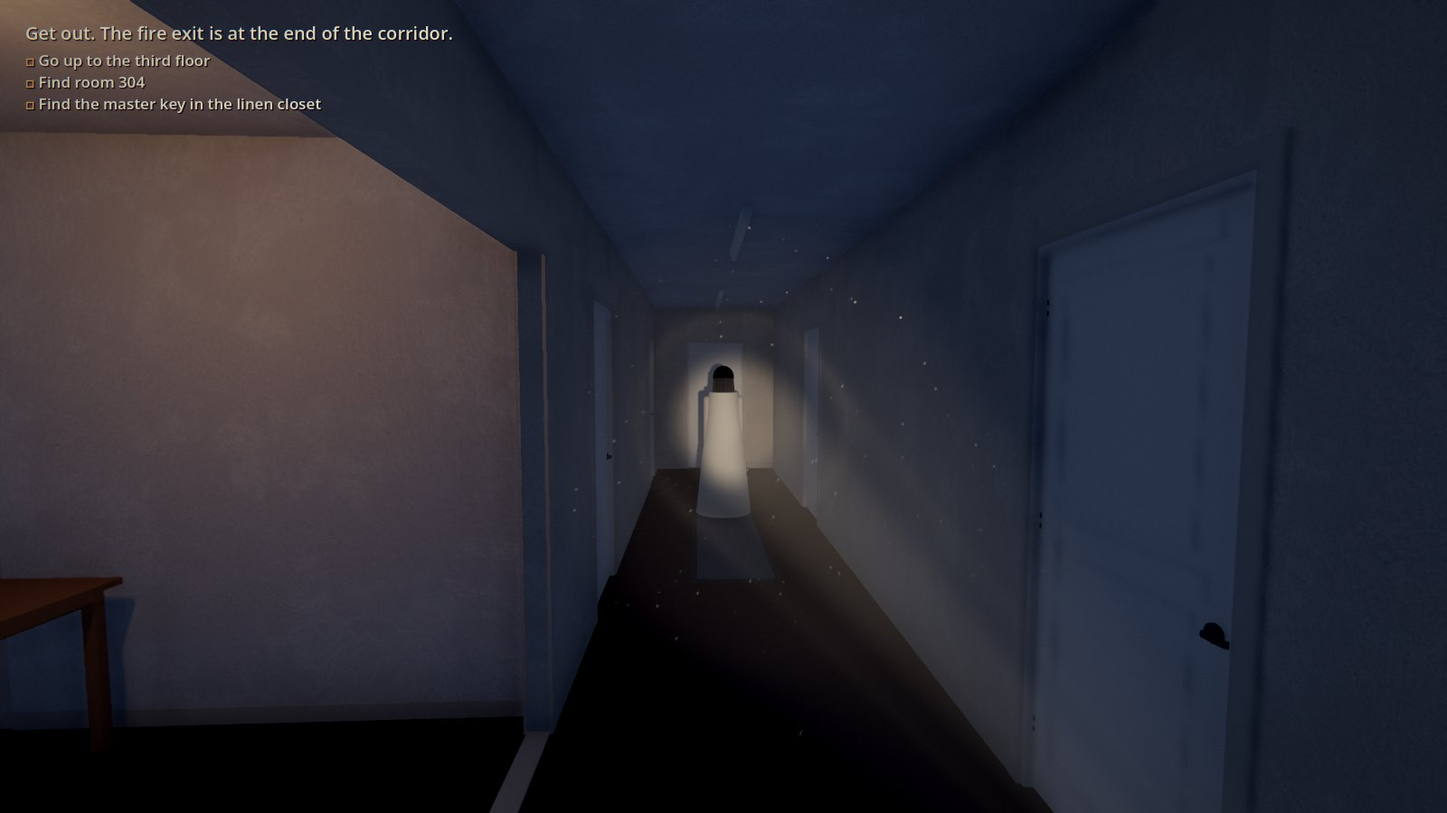
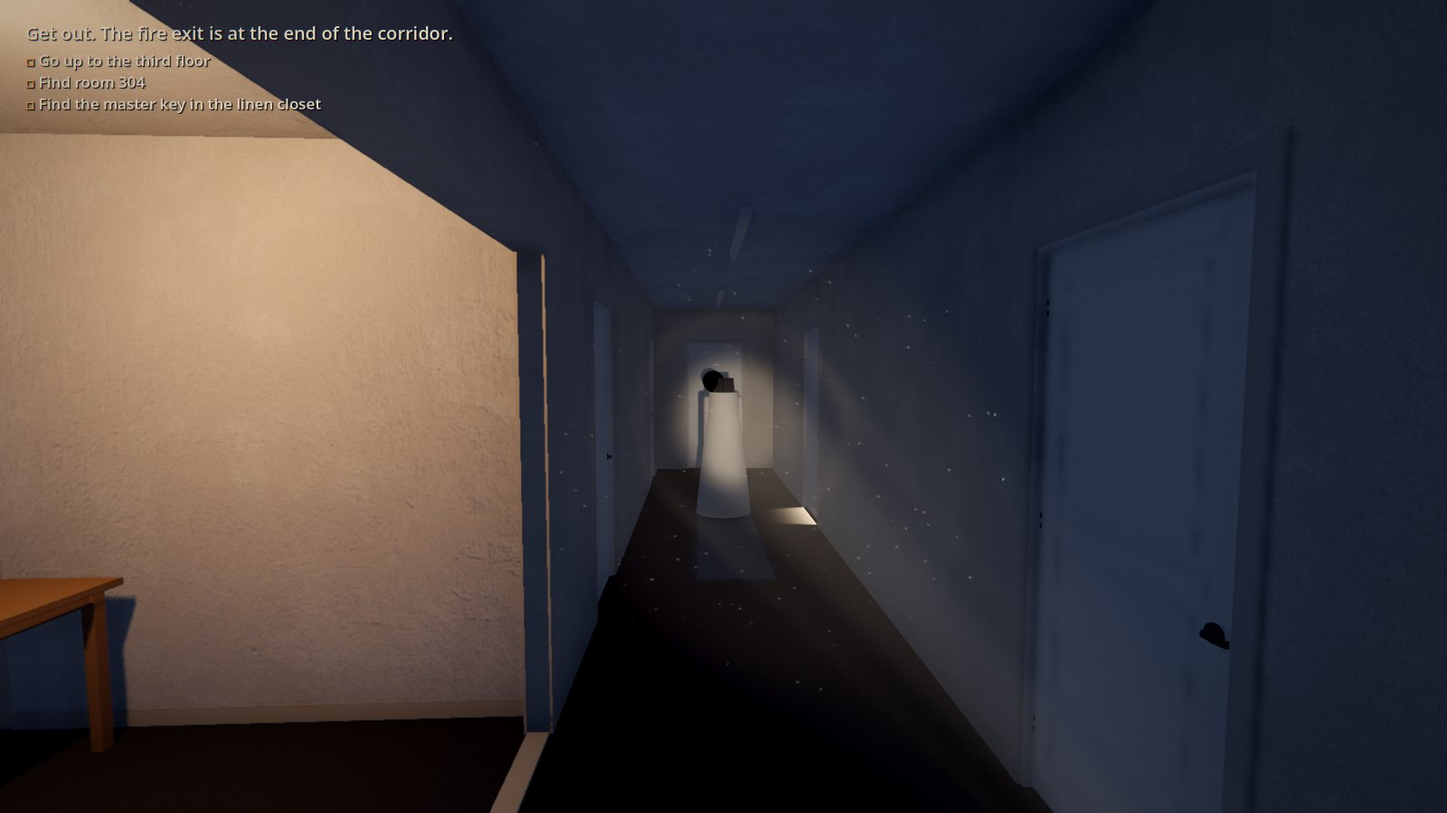
Something wrong with her: the dead stare, the wrong smile, her head bent, her steps copying yours
The starter kit's uncanny.gd, under a character, one thing wrong a face: stare (her
blink off), smile (MHR's lip corner puller with the cheek raiser held at 0: a smile with
no eyes in it), tilt_deg (her head bone, or a stand-in's head and scalp, bent past the
neck's reach) and mimic (a step of hers toward you for each of yours, never while she's
lit). HSBlink no longer stops with a script error on a primitive mesh (only an ArrayMesh
answers about blend shapes). Tutorial v2: her head bent and her steps copying yours, the
closer's figure smiling; TUTORIAL2 tries the smile and the stare on a made-up face with
MHR's shapes; her pictures drawn again.

Claude-Session: https://claude.ai/code/session_014EE6XVG5YmwCZ7DykBkVvC

Changed region(s): [[0.0, 0.0, 0.375, 1.0], [0.4688, 0.4356, 0.5, 0.4978], [0.5312, 0.6222, 0.5625, 0.6533]]

diff --git a/guides/tutorial_v2/index.html b/guides/tutorial_v2/index.html
@@ -108,7 +108,7 @@ footer{margin-top:50px;padding-top:16px;border-top:1px solid var(--line);color:v
   <b>scene builder</b>, then build the whole game in Godot by hand: the <b>Look plugin</b> for the light, the weather and
   the surfaces, and the <b>starter scripts</b> for the story, the sound and the scares. No Director.</p>
   <div class="chips"><span class="chip">about two hours</span><span class="chip">Godot 4.7</span><span class="chip">the scene builder</span>
-  <span class="chip">the HorrorStudio Look plugin</span><span class="chip">25 starter scripts</span><span class="chip">the sound shelf and the four moods</span></div>
+  <span class="chip">the HorrorStudio Look plugin</span><span class="chip">26 starter scripts</span><span class="chip">the sound shelf and the four moods</span></div>
 </header>
 
 <section id="what">
@@ -662,6 +662,18 @@ and when you come within 4 m and look at it, two shadows walk into it and stop: 
 door. Four seconds later they walk away. They wait for your eyes, so they never come while you're looking at her. The
 note asked you not to knock on 308.</p>
 <figure><img src="img/feet.jpg" width="1600" height="900" alt="The dark corridor: light under 308's door, two feet in it"><figcaption>The light under 308's door, and someone standing behind it.</figcaption></figure>
+
+<h3 id="wrong">Something wrong with her</h3>
+<p>Give <code>Her</code> a <span class="node">Node</span> called <code>Uncanny</code> with
+<code>starter/uncanny.gd</code>: <b>Tilt Deg</b> 48 and <b>Mimic</b> on. Her head is bent to the side further than a
+neck goes (about 42°), and she steps when you step and stops when you stop, a step toward you for each of yours, never
+nearer than 2.5 m and never while your light is on her. Give the closer's figure (<code>Events/Closer/Figure</code>)
+one too, with <b>Smile</b> 0.6: when you turn round to her 35 cm behind you, she's smiling with her mouth and not her
+eyes (MHR's lip corner puller without the cheek raiser). <b>Stare</b> turns her blink off: people blink about 17 times
+a minute, and a face that never does isn't alive.</p>
+<p>The smile and the stare need a Character Studio character (her face's shapes and her blink); the stand-in has
+neither, so the bent head and the steps are what you'll see with it. One wrong thing a face: put them all on one face
+and she reads as a monster instead of a person.</p>
 </section>
 
 <section id="ending">
@@ -689,7 +701,7 @@ fire door ends the night: the screen goes black and the ending's title comes up.
   <li>The linen closet is dark: <kbd>F</kbd>. Take the key and the corridor goes out behind you, one tube at a time, then comes back.</li>
   <li>Open 304 with the key. The TV's on. The music turns to dread. Look at the window, then back at the bath's door. And again. Then wash your face, and stand by the bath's wall with the lamp behind you.</li>
   <li>The flashlight dies. Batteries in the vending corner, where the radio's hissing. Walk back out and listen behind you.</li>
-  <li>On the way out she's at the end of the corridor, the tubes stuttering round her. Your heart picks up as you near her. Shine the light on her and she backs off. Do it twice and the corridor goes dark.</li>
+  <li>On the way out she's at the end of the corridor, the tubes stuttering round her, her head on one side. Walk, and she walks. Your heart picks up as you near her. Shine the light on her and she backs off. Do it twice and the corridor goes dark.</li>
   <li>Walk to the fire exit. Don't look under 308's door.</li>
 </ol>
 </section>

diff --git a/tools/godot/tutorial_v2.py b/tools/godot/tutorial_v2.py
@@ -180,7 +180,7 @@ ext = [("PackedScene", "res://exports/interiors/hotel_floor/hotel_floor.glb", "h
        ("Script", "res://starter/fear.gd", "fear"), ("Script", "res://starter/behind_you.gd", "behind"),
        ("Script", "res://starter/presence.gd", "presence"), ("Script", "res://starter/glimpse.gd", "glimpse"), ("Script", "res://starter/closer.gd", "closer"),
        ("Script", "res://starter/mirror_figure.gd", "mirrorfig"), ("Script", "res://starter/shadow_pass.gd", "shadowpass"),
-       ("Script", "res://starter/door_feet.gd", "feet"),
+       ("Script", "res://starter/door_feet.gd", "feet"), ("Script", "res://starter/uncanny.gd", "uncanny"),
        ("Script", "res://addons/horrorstudio_look/nodes/air_zone.gd", "airzone"), ("Script", "res://addons/horrorstudio_look/nodes/light_shaft.gd", "shaft"),
        ("Script", "res://addons/horrorstudio_look/nodes/wall_leak.gd", "leak"), ("Script", "res://addons/horrorstudio_look/nodes/puddle.gd", "puddle"),
        ("Script", "res://addons/horrorstudio_look/nodes/pattern_light.gd", "pattern"), ("Script", "res://addons/horrorstudio_look/nodes/tape.gd", "tape"),
@@ -334,6 +334,7 @@ def person(name, at, turn, shy, parent="."):
 
 person("Her", her_at, her_turn, True)
 nd("Presence", "Her", "Node", script="presence", props=['static_on = NodePath("../../Things/Radio")'], paths=["static_on"])   # the signs that she's near
+nd("Uncanny", "Her", "Node", script="uncanny", props=["tilt_deg = 48.0", "mimic = true"])   # her head bent too far, her steps copying yours
 person("HerAgain", again_at, her_turn, False)
 # the moments and the scares
 nd("Events", ".", "Node3D")
@@ -358,6 +359,7 @@ nd("Closer", "Events", "Node3D", script="closer", props=['blink = NodePath("../.
 for i, (name, at) in enumerate(closer_marks):
     nd(name, "Events/Closer", "Marker3D", props=[f"transform = {tf(at, 180.0)}"])     # facing into the room (a marker's -Z)
 person("Figure", [0, 0, 0], 0.0, False, parent="Events/Closer")
+nd("Uncanny", "Events/Closer/Figure", "Node", script="uncanny", props=["smile = 0.6"])   # behind you at 35 cm: a smile with no eyes in it
 area("InBath", "Events", "event", "r304_bath")                           # walking into the bath: only its signal
 nd("MirrorHer", "Events", "Node3D", script="mirrorfig", props=[f"transform = {tf(mirror_her_at, 180.0)}"])   # in the tub, facing the mirror
 person("Figure", [0, 0, 0], 0.0, False, parent="Events/MirrorHer")

diff --git a/CLAUDE.md b/CLAUDE.md
@@ -48,7 +48,7 @@ game must match. Directing craft: docs/DIRECTING.md.
 | `Content/Games/<Game>/Motion/`, `Previs/` | generated motions as desk files (`motion.py preview`); the desk's glTF blocking exports |
 | `Content/Python/storykit/` | `storylib` (loading, placement, clip lengths), `plan` (world → pieces), `shotlib` (shot cameras, projection), `library` (CC0 refs, sizes, the ledger), `life` (the little things' lives, as life.js), `godot` and `godot_guide` (the Godot export), `director_desk` (a desk game as a Director project: its world and its Director file): plain Python |
 | `dashboard.py`, `tools/dashboard/` | **the dashboard**: `python dashboard.py` (root) opens the launcher as a page at http://127.0.0.1:8790: every tool in its section, the pages to start from as tiles (`START_HERE`: the writers' room, the desk, the Character Studio, the score room, Kimodo, the scene builder, the street builder and the prop generator); pages Start (opened once their server answers), Open and Stop (pages sharing a server share it), kept in the launcher's own `Saved/launch.json` (either stops what the other started; they outlive the dashboard); everything else runs as a job, its output streaming into the side panel, ok or failed by its exit and its `<NAME> ok` line, Stop ends its whole process group (logs in `Saved/dashboard/`); the game picked in the header, words a tool needs typed on its row; `--close` stops every page; `dashtest.mjs` (DASH) |
-| `guides/` | **the guides** (DECISIONS 2026-10-31): the studio's HTML guides for the user, a folder each, pictures of the real thing, nothing loaded from outside; `index.html` lists them all (the desk's `tools/director/guide.html` and each export's `guide/index.html` stay where they are); `director/` the Director in Godot (its pictures in `img/`, made by `tools/godot_director.py guide`; `.gdignore` so a project doesn't import them); **the by-hand guides** (DECISIONS 2026-11-03, night): `godot_by_hand/` (setting up Godot for the exports), `look_plugin/` (the HorrorStudio Look plugin), `first_game/` (a first game from an interior, a street and a character, step by step; its `starter/` scripts, **the by-hand starter kit** every `godot_byhand.py` project gets as `res://starter/`: a first-person player that steps up, `interior.gd` (stood at a street's marker, its doors opened with E, its windows' glass and its kit lamps (their shades) casting no shadow in the game, `room_box`/`fit_area`), `door.gd` (locks: the export's `locked_by`), `scare_area.gd` (lights out, dimmed, flickering or one by one, for a while; appear, hide, a hush first; the fog rolled in, the tape broken up for a moment; `fire()` from signals), `arms_down.gd`, and since tutorial v2 `story.gd` (the objective, the to-do list, lines, a note's card, the pocket, facts, the ending), `sound.gd` (the moods from `music/`, a room's tone, the hush; **the sound physics**, Woohill's (DECISIONS 2026-11-08, night: `acoustics.gd` rays for occlusion and reflections into four reverb slots, its table `acoustics.json`, each play traced, muffled through walls and doors, the room's reverb as tails rendered by `tools/sfx.py tails` into `Saved/SFX/tails` and copied into a project's `sfx/_tails`, an echo; the buses World, SFX, Foley, Events, Tone, Verb, Echo, Muffled, Music, Body; `play`, `step`, `shaped`; the rooms' surfaces off the interior export's volume markers, its `floor` and `mats`), `footsteps.gd` (a step a stride, the player's), `fear.gd` (**the body under fear**, intensity.md §1.6: one level from her nearness (`hs_threat`) and every scare (`hs_scare`), a heartbeat (the shelf's made `heart_beat`, the Body bus), breathing, the World bus dulled, the grade's vignette, the flashlight's `tremor`; each a switch; `ring`, `hold_breath`), `behind_you.gd` (**the steps behind you**: the player's `stepped` answered from behind a beat late, one step too many), `presence.gd` (**the signs that she's near**, intensity.md §3: under her, the lights within 10 m on her floor and your flashlight dipping, at most 2.5 a second (the flash limit), a radio's static rising as she nears (`static_on`), a false alarm one time in ten, `warn`; `lights.gd` `set_flicker` keeps her dips apart from a scare's dimming), `glimpse.gd` (**the corner of the eye**, §5.1: a figure there only 30 to 42° off where you look and 5 to 15 m away, gone as the view turns toward it or within 25°, in a lamp's blink (`Lights.blink`), silent, once, never under a card), `closer.gd` (**closer each time you look away**, §5.2: a figure on Marker3D marks stepping only while unseen (outside the view widened 15°, rays to her head, middle and feet blocked, in no HSMirror you can see), turned more toward you each step, last 0.35 m behind your eye; `caught` when you turn round, gone in a blink), `mirror_figure.gd` (**only in the mirror**, §5.3: a figure on render layer 19, which only the mirrors' cameras draw, no shadow, gone when you turn round to her; or there and missing from the mirror, layer 20; the player's eye leaves 19 out), `shadow_pass.gd` (**a shadow that isn't yours**, §5.4: a shadows-only figure crossing behind you when a lamp's behind you and a wall ahead; `pose` for pictures), `door_feet.gd` (**feet under the door**, §5.4: the light under a door, made in code, and two feet walking into it, standing, walking away, once you're near and looking; it sits itself at its `door`'s foot), `room_tone.gd`, `event_area.gd`, `pickup.gd`, `note.gd`, `flashlight.gd` (batteries, the games' curves, `beam_on`), `light_shy.gd`, `lights.gd`, `reach.gd`), their pictures made by `tools/godot/first_game.py --pictures`; **`tutorial_v2/`** (DECISIONS 2026-11-07, night: Room 304, the hotel floor set modelled in the scene builder and the whole game built by hand with the Look plugin and the starter kit; 2026-11-08 the air in it: the haze, dust, a dustier stairwell, the flashlight's beam, the fog rolling in with the dark, the street lamp's shaft, a leak and a puddle, the leaves on 304's wall, her wet look, the tape at the jump; and §22 Making it intense: the sound physics, your body under fear, the steps behind you, her signs (the vending table's radio), her at 308's door at the corner of your eye, her out of 304's bath closer each time you look away, her in the bath's tub only in the mirror, a shadow crossing 304's wall behind you, feet under 308's door once the corridor's dark; its pictures and play test by `tools/godot/tutorial_v2.py` (`--only` some pictures), TUTORIAL2); `README.md` how to add one |
+| `guides/` | **the guides** (DECISIONS 2026-10-31): the studio's HTML guides for the user, a folder each, pictures of the real thing, nothing loaded from outside; `index.html` lists them all (the desk's `tools/director/guide.html` and each export's `guide/index.html` stay where they are); `director/` the Director in Godot (its pictures in `img/`, made by `tools/godot_director.py guide`; `.gdignore` so a project doesn't import them); **the by-hand guides** (DECISIONS 2026-11-03, night): `godot_by_hand/` (setting up Godot for the exports), `look_plugin/` (the HorrorStudio Look plugin), `first_game/` (a first game from an interior, a street and a character, step by step; its `starter/` scripts, **the by-hand starter kit** every `godot_byhand.py` project gets as `res://starter/`: a first-person player that steps up, `interior.gd` (stood at a street's marker, its doors opened with E, its windows' glass and its kit lamps (their shades) casting no shadow in the game, `room_box`/`fit_area`), `door.gd` (locks: the export's `locked_by`), `scare_area.gd` (lights out, dimmed, flickering or one by one, for a while; appear, hide, a hush first; the fog rolled in, the tape broken up for a moment; `fire()` from signals), `arms_down.gd`, and since tutorial v2 `story.gd` (the objective, the to-do list, lines, a note's card, the pocket, facts, the ending), `sound.gd` (the moods from `music/`, a room's tone, the hush; **the sound physics**, Woohill's (DECISIONS 2026-11-08, night: `acoustics.gd` rays for occlusion and reflections into four reverb slots, its table `acoustics.json`, each play traced, muffled through walls and doors, the room's reverb as tails rendered by `tools/sfx.py tails` into `Saved/SFX/tails` and copied into a project's `sfx/_tails`, an echo; the buses World, SFX, Foley, Events, Tone, Verb, Echo, Muffled, Music, Body; `play`, `step`, `shaped`; the rooms' surfaces off the interior export's volume markers, its `floor` and `mats`), `footsteps.gd` (a step a stride, the player's), `fear.gd` (**the body under fear**, intensity.md §1.6: one level from her nearness (`hs_threat`) and every scare (`hs_scare`), a heartbeat (the shelf's made `heart_beat`, the Body bus), breathing, the World bus dulled, the grade's vignette, the flashlight's `tremor`; each a switch; `ring`, `hold_breath`), `behind_you.gd` (**the steps behind you**: the player's `stepped` answered from behind a beat late, one step too many), `presence.gd` (**the signs that she's near**, intensity.md §3: under her, the lights within 10 m on her floor and your flashlight dipping, at most 2.5 a second (the flash limit), a radio's static rising as she nears (`static_on`), a false alarm one time in ten, `warn`; `lights.gd` `set_flicker` keeps her dips apart from a scare's dimming), `glimpse.gd` (**the corner of the eye**, §5.1: a figure there only 30 to 42° off where you look and 5 to 15 m away, gone as the view turns toward it or within 25°, in a lamp's blink (`Lights.blink`), silent, once, never under a card), `closer.gd` (**closer each time you look away**, §5.2: a figure on Marker3D marks stepping only while unseen (outside the view widened 15°, rays to her head, middle and feet blocked, in no HSMirror you can see), turned more toward you each step, last 0.35 m behind your eye; `caught` when you turn round, gone in a blink), `mirror_figure.gd` (**only in the mirror**, §5.3: a figure on render layer 19, which only the mirrors' cameras draw, no shadow, gone when you turn round to her; or there and missing from the mirror, layer 20; the player's eye leaves 19 out), `shadow_pass.gd` (**a shadow that isn't yours**, §5.4: a shadows-only figure crossing behind you when a lamp's behind you and a wall ahead; `pose` for pictures), `door_feet.gd` (**feet under the door**, §5.4: the light under a door, made in code, and two feet walking into it, standing, walking away, once you're near and looking; it sits itself at its `door`'s foot), `uncanny.gd` (**one thing wrong with her**, §5.6: `stare` her blink off (HSBlink's idle), `smile` MHR's lip corner puller with the cheek raiser held at 0, `tilt_deg` her head bone or a stand-in's head bent past the neck's reach, `mimic` a step of hers for each of yours, never while she's lit), `room_tone.gd`, `event_area.gd`, `pickup.gd`, `note.gd`, `flashlight.gd` (batteries, the games' curves, `beam_on`), `light_shy.gd`, `lights.gd`, `reach.gd`), their pictures made by `tools/godot/first_game.py --pictures`; **`tutorial_v2/`** (DECISIONS 2026-11-07, night: Room 304, the hotel floor set modelled in the scene builder and the whole game built by hand with the Look plugin and the starter kit; 2026-11-08 the air in it: the haze, dust, a dustier stairwell, the flashlight's beam, the fog rolling in with the dark, the street lamp's shaft, a leak and a puddle, the leaves on 304's wall, her wet look, the tape at the jump; and §22 Making it intense: the sound physics, your body under fear, the steps behind you, her signs (the vending table's radio), her at 308's door at the corner of your eye, her out of 304's bath closer each time you look away, her in the bath's tub only in the mirror, a shadow crossing 304's wall behind you, feet under 308's door once the corridor's dark, her head bent and her steps copying yours, the closer's smile with no eyes in it; its pictures and play test by `tools/godot/tutorial_v2.py` (`--only` some pictures), TUTORIAL2); `README.md` how to add one |
 | `tools/godot_byhand.py` | **a Godot project for building by hand** (guides/godot_by_hand): `new <folder>` (project.godot with the Look plugin on and its balanced settings, `addons/horrorstudio_look`, `HumanShaders/`, `starter/`, `sfx/` (the sound shelf), `music/` (the four moods), `exports/{interiors,streets,characters}`), `install <folder>` (the add-ons again after a pull; `starter/` left alone), `exports <folder> [--link]` (the studio's `Exports/` copied or linked into the project's `exports/`) |
 | `Exports/` | **the exports for a Godot project built by hand** (DECISIONS 2026-11-03, night: "an exports folder with sub folders for each ... so I can drag and drop them into my Godot project"): `interiors/<name>/` (the scene builder's Export for Godot, `levelexport.js`: a level's pieces with their materials, each door on its hinge, `-colonly` colliders, `-occonly` occluders, its lamps, `player_start` and the spots as markers, each room's volume marker carrying its floor's kind and the sets on its floor, walls and ceiling for the starter's sound; `node tools/director/levelexport.mjs --game set:<name>`), `streets/<name>/` (the street builder's Export for Godot, `streetexport.mjs`), `characters/<name>/` (the Character Studio's Export for Godot: its export with MHR's 72 face shapes baked, `face_morphs.mjs`); a `README.txt` in each; `storykit/exports.py` writes them (the desk's `/api/exports/<kind>/<name>/<file>`, the Studio's `/api/godot/<name>`); only the READMEs tracked; a name starting with `_` (a check's) goes to `Saved/Exports/` |
 | `.claude/skills/` | **Claude's commands** (DECISIONS 2026-10-27, later): `/chart` (`chart/`: the user's notes, written any way in a notepad, made into the writers' room's chart through Claude's script, `chart/script.md`; docs/NOTES.md the few marks suggested to them) and `/build-game` (`build-game/`: the checked chart into the director, into the user's set when they designed the place first) and `/build-map` (`build-map/`: a map from a floor plan, a photo or words, cheaply: a layout file into a set (`tools/director/layoutset.mjs --file`, `repeat` for storeys alike), a street file synced with it (`tools/director/streetsync.mjs`), the checks, `tools/godot/map_shots.py` (the set in its street pictured by Godot, a contact sheet); its formats compact in `reference.md`) |
@@ -101,7 +101,7 @@ game must match. Directing craft: docs/DIRECTING.md.
 - `node tools/facecap/pagetest.mjs`: FACEMOCAP (the Face page on its own server, a scratch library and a scratch Godot project, in a headless browser: the cards the default MHR wearing each; a capture and a loop sent For Godot into the project's `faces/` and `faces/loops/`, marked, the project remembered; a card's preview moving the face, renamed and saved; a folder that isn't a project refused; with `EXPR_VIDEO` an import too; `--out` keeps the guide's pictures)
 - `node tools/director_manager/pagetest.mjs`: MANAGERPAGE (the Director Manager on a scratch project in a headless browser: every tab drawn, a quest with a step whose trigger is picked from the desk's palette, a condition on its next, a round (hide and seek) on it, a conversation, a moment, a state, an ending, saved with the version before kept, Coverage's unused and missing ids, a save deleted, the next play set)
 - `python tools/godot/first_game.py [--pictures] [--keep DIR]`: FIRSTGAME (guides/first_game built for real: a project made by `godot_byhand.py new`, the Bungalow's interior (no outside), the hill motel street and a Studio export (`_studiotest`) as the editors export them, `main.tscn` as the guide's steps make it; played headless (`first_game_test.gd`): the Bungalow at the street's marker, the player landing on the street and walking up the garden path's step to the front door, a ray through the street's doorway meeting the Bungalow's door, E sliding it open, the guest room's lamps out and her there when walked into; the three by-hand guides' pictures there and shown and their links landing; `--pictures` draws them again under xvfb (`first_game_shots.gd`) and copies LOOKPLUGIN's; the desk's server running)
-- `python tools/godot/tutorial_v2.py [--pictures] [--keep DIR] [--reuse]`: TUTORIAL2 (guides/tutorial_v2 built for real: a `godot_byhand.py new` project, the `hotel_floor` set as the scene builder exports it, `main.tscn` as the guide's steps make it; played headless (`tutorial_v2_test.gd`): up the dog-leg, the stair door, the corridor's lights dimming and back, 304 locked and saying so, the note's card and task, the key and the tubes out one by one farthest first and back, 304 opened with the key, its moment (dread, the TV's static), the flashlight low, dead and its batteries going in, her backing off from the beam and the corridor dark when she's flashed twice, the hush silent at the jump scare, the fire door's ending; the intense parts: the rooms' surfaces and steps, the stairwell ringing longer than the corridor, 304's knock muffled shut and clear open, the steps behind you, the Fear node near her, the glimpse at 308's door (seen 30 to 42° off, gone as you turn to it), the closer from 304's bath (never moving while seen, its marks, 0.35 m behind you, caught, gone in the lamp's blink), her in the bath's mirror only (in the glass, on layer 19 with no shadow, the eye leaving 19 out, the mirror's wall and lining out of its picture, nobody when you turn round), the shadow pass (shadows only, between you and 304's lamp, across), the feet under 308's door (at its foot, facing the corridor, not come while you looked at her, came, stood, left), her signs (the radio's static, the tubes and the flashlight dipping within the flash limit, a warning without her); the guide's pictures and links; `--pictures` Godot's under xvfb (`tutorial_v2_shots.gd`) and the scene builder's (`tutorial_v2_builder.mjs`); `--reuse` keeps the last project's export and import; the desk's server running)
+- `python tools/godot/tutorial_v2.py [--pictures] [--keep DIR] [--reuse]`: TUTORIAL2 (guides/tutorial_v2 built for real: a `godot_byhand.py new` project, the `hotel_floor` set as the scene builder exports it, `main.tscn` as the guide's steps make it; played headless (`tutorial_v2_test.gd`): up the dog-leg, the stair door, the corridor's lights dimming and back, 304 locked and saying so, the note's card and task, the key and the tubes out one by one farthest first and back, 304 opened with the key, its moment (dread, the TV's static), the flashlight low, dead and its batteries going in, her backing off from the beam and the corridor dark when she's flashed twice, the hush silent at the jump scare, the fire door's ending; the intense parts: the rooms' surfaces and steps, the stairwell ringing longer than the corridor, 304's knock muffled shut and clear open, the steps behind you, the Fear node near her, the glimpse at 308's door (seen 30 to 42° off, gone as you turn to it), the closer from 304's bath (never moving while seen, its marks, 0.35 m behind you, caught, gone in the lamp's blink), her in the bath's mirror only (in the glass, on layer 19 with no shadow, the eye leaving 19 out, the mirror's wall and lining out of its picture, nobody when you turn round), the shadow pass (shadows only, between you and 304's lamp, across), the feet under 308's door (at its foot, facing the corridor, not come while you looked at her, came, stood, left), something wrong with her (a made-up face with MHR's shapes: the smile without the cheeks, her blink off; her head bent 48°, her steps copying yours and none once you stop), her signs (the radio's static, the tubes and the flashlight dipping within the flash limit, a warning without her); the guide's pictures and links; `--pictures` Godot's under xvfb (`tutorial_v2_shots.gd`) and the scene builder's (`tutorial_v2_builder.mjs`); `--reuse` keeps the last project's export and import; the desk's server running)
 - `python tools/godot/exports_check.py`: EXPORTS (the editors' Export for Godot, each dropped into a fresh Godot 4.7 project and imported headless: two sets' interiors (their meshes and materials, colliders a ray from the player's start lands on and meets a wall by, occluders, lamps, markers with their metadata, every door its own node on its hinge with its collider, the Bungalow's outside its own node), hill_motel's street (colliders, its insides), a Studio export made Godot's (a skeleton, MHR's 72 face shapes as blend shapes; skipped on a machine with none), the desk's `/api/exports` writing a file and its README; the desk's server running)
 - `python tools/godot_export.py --game Pilot --play`: GDPLAY (the Pilot played headless in Godot from its start to its good ending as playtest.js plays it on the desk: the walls, the front door, the hall's trigger, the message scene blending in, the to-do list, the letter, the kitchen's glimpse, the drawer's code, the key, the cellar door, the grab answered, the timed run out; `tests/gdplay.gd`)
 - `python tools/godot_export.py --game TestRoom001 --testroom [--from n_station]`: GDTESTROOM (TestRoom001 played headless in Godot station by station as testroom.mjs plays it on the desk, every task done by the thing it names and heard ticked (station 13: the suitcase opened, packed and shut, the journal's pages and the one that appears, the sliding closet, the wardrobe hidden in, the chair shoved, carried and put down; station 19: up a dog-leg stairwell to a gallery and down a house stair, the feet's height at each landing, never stuck, the eye never jumping a riser), then a death and its retry and the doll's trigger cutscene; the run's state after each station written to `Saved/Story/TestRoom001/godot_reference/states.json`, the same shape as the desk's `reference/states.json` to compare (the little things' timers differ by the drivers' pace: the desk's test runs in wall time); with a bake present (`tools/godot/bake.mjs`) the lobby scene plays from it and its skinned body's head is measured on the recorded joint; `tests/gdtestroom.gd`)

diff --git a/docs/CONTINUE.md b/docs/CONTINUE.md
@@ -47,9 +47,9 @@ light, eye candy researched first, the system then put into tutorial v2 (DECISIO
 
 Then the user asked for more atmospheric horror, researched (DECISIONS 2026-11-08, later): docs/research/intensity.md (sound and the body, pacing and the threat's signs, the uncanny seen; §7 what to build first, §7's three decisions for the user). Nothing of it built: the user picks.
 
-**Then (2026-11-08, night) the user: "for reverb you can lift the system we made in Woohill repo, feel free to work on the rest and include them as part of the new tutorial too".** Built in steps, a commit each (the tasks: sound physics; the body and the behind-you layer; her presence and the uncanny; the dread director; lightning, the cold and steam; being hunted), each into tutorial v2. Done so far: **the sound physics** (Woohill's: the starter's `acoustics.gd`, `sound.gd`'s mix and `play`/`step`/`shaped`, `footsteps.gd`; the tails by `tools/sfx.py tails`; the interior export's room markers carrying `floor` and `mats`; TUTORIAL2 checks the stairwell rings 3x the corridor and a knock behind 304's shut door is muffled); **the body and the steps behind you** (the starter's `fear.gd`: a heartbeat off the shelf's made `heart_beat`, breathing, the world dulled, the vignette, the beam's tremor, each a switch; `behind_you.gd`; tutorial v2's new §22 Making it intense); **her signs, the corner of the eye and closer each time** (the starter's `presence.gd` under her: the lights within 10 m on her floor and the flashlight dipping under the flash limit, the vending table's radio hissing, a false alarm, `warn`; `glimpse.gd`: her at 308's door after the note, only 30 to 42° off, gone as you turn to it in Tube5's blink; `closer.gd`: out of 304's bath mark by mark while unseen, then 0.35 m behind you, caught, gone in the lamp's blink, the Fear node's scare; `lights.gd` `set_flicker` and `blink`; §22's three new parts and two pictures, `glimpse` and `closer`; `tutorial_v2.py --only` draws only some pictures); **only in the mirror** (the Look plugin: render layer 19 drawn by the mirrors' cameras alone, the mirrors now 11 to 18, `HSMirror.only_in_mirrors`/`never_in_mirrors`; a mirror's own wall now kept out of its picture, which it wasn't for an export's walls (their `-colonly` colliders hold no mesh) nor the demo's; LOOKPLUGIN counts a box on each layer and its "mirror in a mirror" measure honest again; the starter's `mirror_figure.gd`, the player's eye leaving 19 out; tutorial v2: her in 304's tub, in the bath's mirror only); **a shadow that isn't yours and feet under the door** (the starter's `shadow_pass.gd` and `door_feet.gd`; tutorial v2: someone crossing behind you on 304's wall once she's gone from the mirror, the floor lamp now in its shade, 1.4 m up, where the guide always said; the light under 308's door and the feet in it once the corridor's dark).
+**Then (2026-11-08, night) the user: "for reverb you can lift the system we made in Woohill repo, feel free to work on the rest and include them as part of the new tutorial too".** Built in steps, a commit each (the tasks: sound physics; the body and the behind-you layer; her presence and the uncanny; the dread director; lightning, the cold and steam; being hunted), each into tutorial v2. Done so far: **the sound physics** (Woohill's: the starter's `acoustics.gd`, `sound.gd`'s mix and `play`/`step`/`shaped`, `footsteps.gd`; the tails by `tools/sfx.py tails`; the interior export's room markers carrying `floor` and `mats`; TUTORIAL2 checks the stairwell rings 3x the corridor and a knock behind 304's shut door is muffled); **the body and the steps behind you** (the starter's `fear.gd`: a heartbeat off the shelf's made `heart_beat`, breathing, the world dulled, the vignette, the beam's tremor, each a switch; `behind_you.gd`; tutorial v2's new §22 Making it intense); **her signs, the corner of the eye and closer each time** (the starter's `presence.gd` under her: the lights within 10 m on her floor and the flashlight dipping under the flash limit, the vending table's radio hissing, a false alarm, `warn`; `glimpse.gd`: her at 308's door after the note, only 30 to 42° off, gone as you turn to it in Tube5's blink; `closer.gd`: out of 304's bath mark by mark while unseen, then 0.35 m behind you, caught, gone in the lamp's blink, the Fear node's scare; `lights.gd` `set_flicker` and `blink`; §22's three new parts and two pictures, `glimpse` and `closer`; `tutorial_v2.py --only` draws only some pictures); **only in the mirror** (the Look plugin: render layer 19 drawn by the mirrors' cameras alone, the mirrors now 11 to 18, `HSMirror.only_in_mirrors`/`never_in_mirrors`; a mirror's own wall now kept out of its picture, which it wasn't for an export's walls (their `-colonly` colliders hold no mesh) nor the demo's; LOOKPLUGIN counts a box on each layer and its "mirror in a mirror" measure honest again; the starter's `mirror_figure.gd`, the player's eye leaving 19 out; tutorial v2: her in 304's tub, in the bath's mirror only); **a shadow that isn't yours and feet under the door** (the starter's `shadow_pass.gd` and `door_feet.gd`; tutorial v2: someone crossing behind you on 304's wall once she's gone from the mirror, the floor lamp now in its shade, 1.4 m up, where the guide always said; the light under 308's door and the feet in it once the corridor's dark); **something wrong with her** (the starter's `uncanny.gd`: her blink off, the smile with no eyes in it, her head bent, her steps copying yours; HSBlink no longer stops on a primitive mesh; tutorial v2: Her bent and walking when you walk, the closer's figure smiling).
 
-Still to build in this run (the tasks): the dead stare, the wrong smile, her head bent, her steps copying yours; the dread director and her menace with the everyday moments; lightning, the cold and steam writing; being hunted (hiding, held breath, the search's close pass, chases).
+Still to build in this run (the tasks): the dread director and her menace with the everyday moments; lightning, the cold and steam writing; being hunted (hiding, held breath, the search's close pass, chases).
 
 Next:
 0. **The user's pick from intensity.md §7** (the first five are small: footsteps in 3D and the behind-you layer, presence signs, the dead stare, the edge figure and closer-each-time, the shadow that isn't yours).

diff --git a/docs/research/intensity.md b/docs/research/intensity.md
@@ -370,7 +370,9 @@ runner and story_check in one commit, as the rules say).
 tutorial too"; the starter kit and tutorial v2's §22): 1 (`footsteps.gd`, `behind_you.gd`), 2 (`presence.gd`; the
 breath near her waits for the cold), 4 (`glimpse.gd`, `closer.gd`), 6 (Woohill's sound physics: `acoustics.gd`,
 `sound.gd`), 8 (`fear.gd`), 10's occlusion and 5 (`mirror_figure.gd` with the Look plugin's layer 19,
-`shadow_pass.gd`, `door_feet.gd`). Not yet for the desk's export: no story words.
+`shadow_pass.gd`, `door_feet.gd`), 3 (`uncanny.gd`: the dead stare and the wrong smile, with §5.6's posture and
+mimicry; the pupils' answer to the beam waits, for there's no pupil reflex for the living to differ from yet). Not
+yet for the desk's export: no story words.
 
 1. **Footsteps in 3D, and the behind-you layer** (S). The player's steps by floor at the feet (the by-hand player has
    none), then the phantom steps copying them 0.3 s late, one step too many, a door shutting out of sight.

diff --git a/docs/LESSONS.md b/docs/LESSONS.md
@@ -2034,3 +2034,7 @@ pale one shows.
   the wall measured nothing (0.1419 against 0.1418): the shade's mesh casts shadows. A fabric shade lets light
   through, so interior.gd turns the kit lamps' shadows off as it does the windows' glass. Before blaming a faint
   shadow, render the frame with and without the thing and compare.
+- **Only an ArrayMesh answers about blend shapes**: `mesh.get_blend_shape_count()` is ArrayMesh's, so HSBlink's search
+  for the blink's shapes stopped with a script error on the stand-in's CylinderMesh (a box in a character's hand would
+  have done the same). Ask the MeshInstance3D (`get_blend_shape_count`, `find_blend_shape_by_name`) or check
+  `mesh is ArrayMesh` first.
